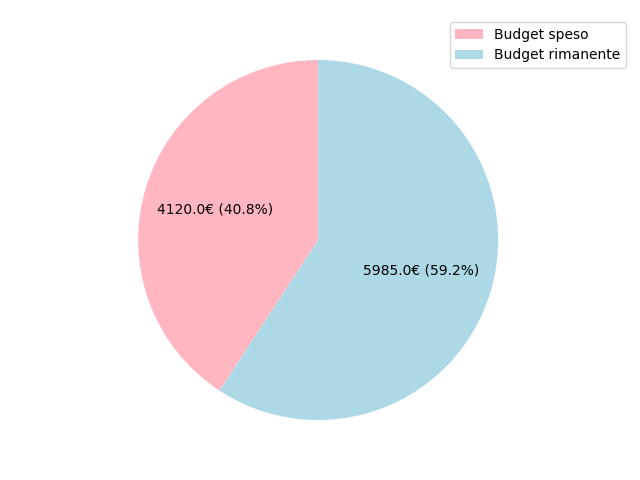
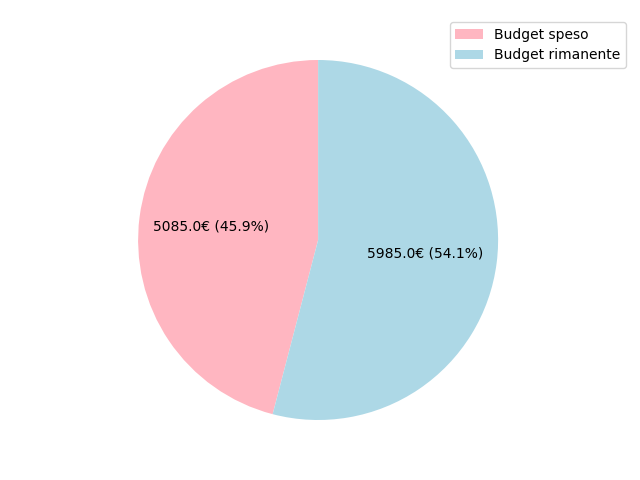
fix calcolo budget

Changed region(s): [[0.3438, 0.5, 0.5, 0.875], [0.5625, 0.5, 0.75, 0.5938], [0.25, 0.4062, 0.4375, 0.5]]

diff --git a/src/3_PB/PianoDiProgetto/auto_preventivo.py b/src/3_PB/PianoDiProgetto/auto_preventivo.py
@@ -64,8 +64,8 @@ with open('preventivi/budget.csv', newline='') as csvfile:
     budget_csv = [next(reader)] # skip header
     rows = list(reader)
     # starting budget_time and budget_cash
-    starting_budget_time = int(rows[1][1])
-    starting_budget_cash = int(rows[1][2])
+    starting_budget_time = int(rows[0][1])
+    starting_budget_cash = int(rows[0][2])
     budget_time = int(rows[sprintNum-1][1]) # we skip the first column
     budget_cash = int(rows[sprintNum-1][2])
     for row in rows:
